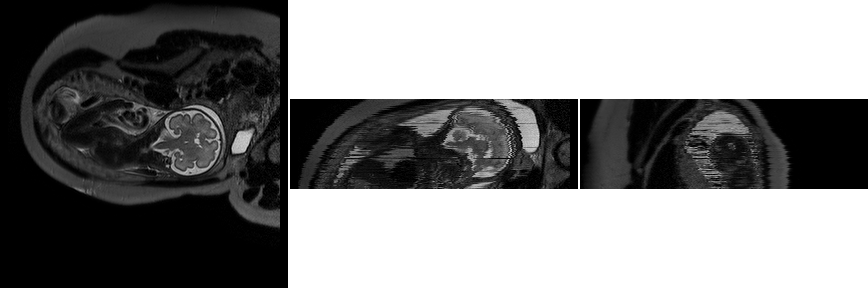
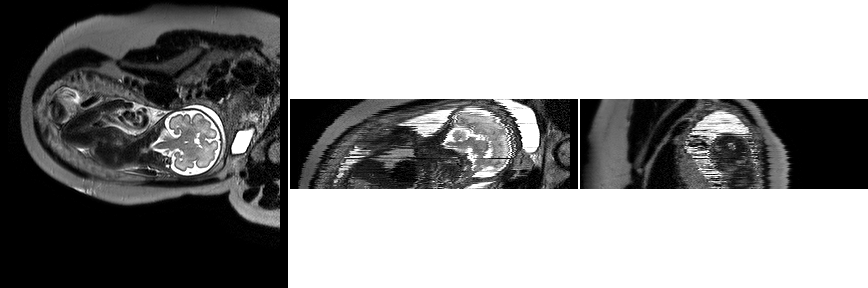
saturated thumbnails

Changed region(s): [[0.0, 0.0312, 0.9332, 0.7812]]

diff --git a/show.py b/show.py
@@ -4,16 +4,18 @@ import irtk
 from glob import glob
 import os
 
-def show(all_files,prefix=""):
+def show(all_files,prefix="",saturate=False):
     for f in all_files:
         name = os.path.basename(f)[:-len('.nii.gz')]
         img = irtk.imread(f,dtype="float32")
+        if saturate:
+            img = img.saturate().rescale()
         png_name = "img/"+prefix+name+".png"
         print png_name
         irtk.imshow(img,filename=png_name)
     
-show(glob("data/*.nii.gz"))
+show(glob("data/*.nii.gz"),saturate=True)
 show(glob("output_detection/*.nii.gz"),"detection_")
-show(glob("output_segmentation/*.nii.gz"))
-show(["output_reconstruction/motion_corrected_volume.nii.gz"])
+show(glob("output_segmentation/*.nii.gz"),saturate=True)
+show(["output_reconstruction/motion_corrected_volume.nii.gz"],saturate=True)
 
